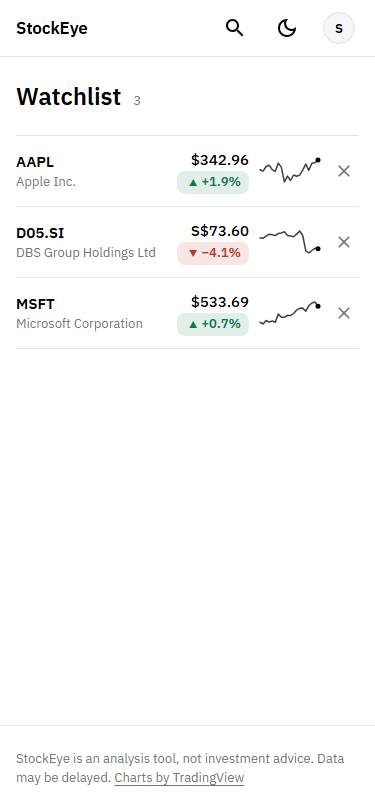
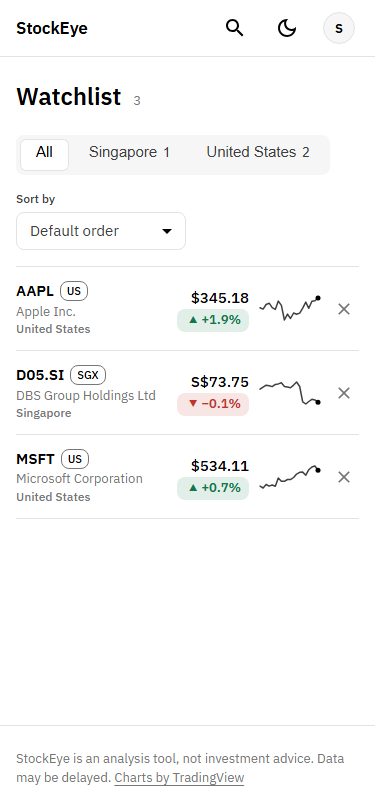
docs: phase 7 status; re-shoot screenshots with News months and phone macro

diff --git a/docs/PLAN.md b/docs/PLAN.md
@@ -544,7 +544,18 @@ Then the frontend branches. Same process as earlier phases: Sonnet implements, O
 macro wording; a security review for the changed news endpoint.
 
 ### Phase 7 status
-- [ ] Discover order and funds (5A + 5D)
-- [ ] News months and grouping (3A + 3D)
-- [ ] Macro verdicts and chart (2A + 2B + 2D)
-- [ ] Header line (1A) and country filter (4A)
+- [x] Header line (1A) and country filter (4A) (#43)
+- [x] Discover order and funds (5A + 5D): 10 per list, each in its own order; one column model; a shared sort applies only to
+  lists that show that column; one "Reset to list order" (#44, #47)
+- [x] Macro verdicts and chart (2A + 2B + 2D): three questions with answer chips, a range chart with 3 ticks, the method in
+  "How this was worked out" (#45, #48)
+- [x] News months and grouping (3A + 3D): month chips with article counts (`?month=YYYY-MM`), "+N similar stories" (#46, #49)
+- [x] Live-check fix: month counts are no longer cached while a symbol's news is still being collected (#50)
+- Every item had an Opus review iterated until approved, and a live check at desktop and 375 px. Screenshots re-shot, with new
+  News-months and phone macro shots (`SHOTS=` re-shoots single files).
+- Grouping prefers precision: it needs 3 shared words after stemming, and opposite stories never merge. So headlines that
+  differ in wording (e.g. three "Neutron delayed" stories on Oct 14) stay separate.
+- Deploys: Pages publishes on merge; the backend image (news months, macro verdicts, Discover order) waits for the user's
+  `production` approval.
+- Follow-ups: `test_discover.py::test_a_marker_older_than_six_hours_no_longer_blocks_the_startup_build` flakes under full-suite
+  load (passes alone); Dependabot major bumps.
